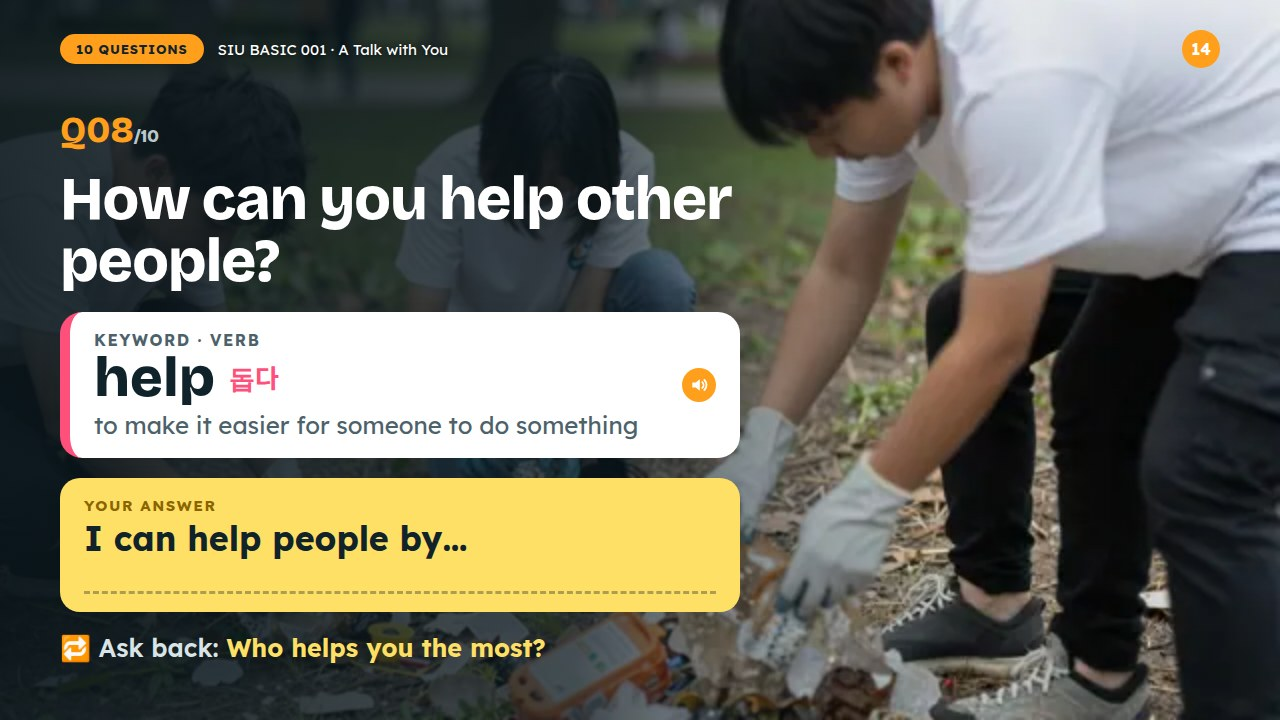
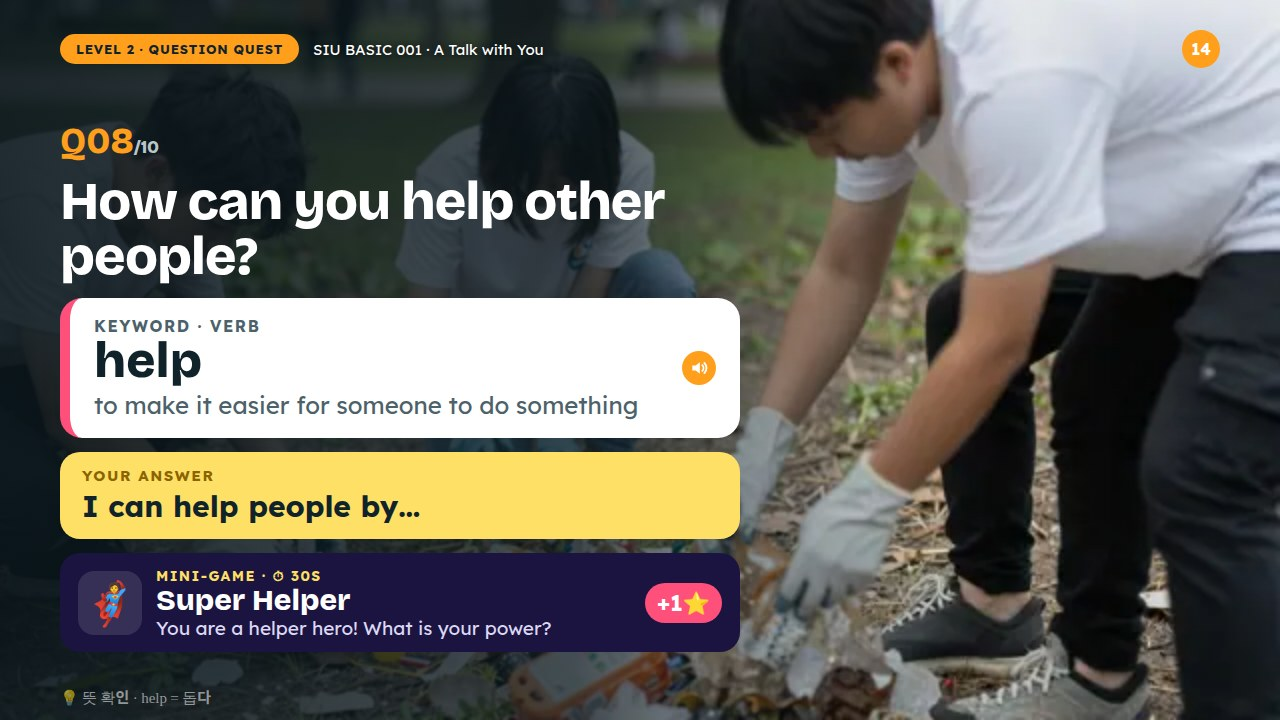
docs(newsiu): SIU BASIC 001 샘플 4판 — 게임쇼 구성(레벨·⭐·미니게임·보스 퍼즐) + 한글 뜻은 각주·뜻맞추기로(짐작→확인)
Claude-Session: https://claude.ai/code/session_013WvnvG5MbTgTVHs2xVEKSf

diff --git a/docs/newsiu-sample/preview.html b/docs/newsiu-sample/preview.html
@@ -25,8 +25,8 @@ button.say{background:var(--mango);border-color:var(--mango);color:#1b1100;font-
 h2{font-size:16px;margin:8px 0 0}
 </style>
 <div class="wrap">
-  <h1>New SIU 샘플 — SIU BASIC 001 · A Talk with You</h1>
-  <p class="meta">3판 · 원본 교재(구글 드라이브 «001 - A talk with you», 2019)의 순서와 내용 그대로 — 현재시제 문법 → Are you a student? → 동사 표 → 질문 10개(핵심 낱말) → 낱말 퍼즐. 디자인·게임 쪽(Fix it!·인터뷰)을 더했습니다. 🔊 는 이 미리보기에서는 브라우저 목소리입니다.</p>
+  <h1>New SIU 샘플 — SIU BASIC 001 · A Talk with You (4판)</h1>
+  <p class="meta">4판 · 원본 교재(구글 드라이브 «001 - A talk with you», 2019) 내용 그대로 + 게임쇼 구성: 레벨 3개와 보스 퍼즐, ⭐ 20개 모으기, 질문마다 다른 미니게임. 한글 뜻은 «먼저 짐작 → 나중에 확인» — 쪽 아래 작은 각주와 17쪽 뜻 맞추기 게임에만 나옵니다. 🔊 는 이 미리보기에서는 브라우저 목소리입니다.</p>
   <div class="stage"><img id="big" alt="교재 쪽"></div>
   <div class="bar">
     <button id="prev" type="button">← 이전</button>
@@ -39,7 +39,7 @@ h2{font-size:16px;margin:8px 0 0}
   <div class="thumbs" id="thumbs"></div>
 </div>
 <script>
-var D=[{"img":"jpg/Slide1.JPG","lines":["A Talk with You"]},{"img":"jpg/Slide2.JPG","lines":["Learn the simple present.","Answer 10 questions.","Solve the crossword."]},{"img":"jpg/Slide3.JPG","lines":["What is simple present?","Simple present is used to talk about an action which happens on a regular basis.","I study English every day.","We use the present tense to talk about something that is true in the present.","I am a student."]},{"img":"jpg/Slide4.JPG","lines":["Are you a student?","Yes, I am a student.","No, I am not a student."]},{"img":"jpg/Slide5.JPG","lines":["Do you like kimchi?","I like kimchi.","She likes kimchi.","I don't like kimchi.","He doesn't like kimchi.","Do you like kimchi?","Does she like kimchi?"]},{"img":"jpg/Slide6.JPG","lines":["He likes kimchi.","She doesn't like cats.","Does he play soccer?","They like music."]},{"img":"jpg/Slide7.JPG","lines":["Why do you study English?","study. To spend time learning about a subject, often with books.","I study English because...","How long do you study every day?"]},{"img":"jpg/Slide8.JPG","lines":["Where do you live?","live. To have your home in a place.","I live in...","Do you like your neighborhood?"]},{"img":"jpg/Slide9.JPG","lines":["What is your favorite TV show?","watch. To look at something for a period of time.","My favorite TV show is...","When do you usually watch it?"]},{"img":"jpg/Slide10.JPG","lines":["Do you have a pet?","pet. An animal you keep at home for company and fun.","Yes, I do. I have a... / No, I don't.","What pet would you like to have?"]},{"img":"jpg/Slide11.JPG","lines":["What is your favorite sport?","sport. A physical game where players or teams compete.","My favorite sport is...","Do you play it or watch it?"]},{"img":"jpg/Slide12.JPG","lines":["What is the best thing about your friend?","best. Better than all the others.","The best thing about my friend is...","How did you meet your friend?"]},{"img":"jpg/Slide13.JPG","lines":["What is one thing you want to learn?","learn. To get knowledge or a skill by studying or practice.","I want to learn how to...","Who can teach you?"]},{"img":"jpg/Slide14.JPG","lines":["How can you help other people?","help. To make it easier for someone to do something.","I can help people by...","Who helps you the most?"]},{"img":"jpg/Slide15.JPG","lines":["What would you like to teach someone?","teach. To show or explain to someone how to do something.","I would like to teach someone how to...","Who taught you something special?"]},{"img":"jpg/Slide16.JPG","lines":["What are your hobbies?","hobby. An activity you do for fun in your free time.","My hobbies are...","How often do you do your hobby?"]},{"img":"jpg/Slide17.JPG","lines":["1. to have your home in a place.","2. to get knowledge or a skill by studying or practice.","3. an animal you keep at home for company and fun.","4. to spend time learning about a subject, often with books.","5. to show or explain to someone how to do something.","6. to make it easier for someone to do something.","7. better than all the others.","8. a physical game where players or teams compete.","9. an activity you do for fun in your free time.","10. to look at something for a period of time."]},{"img":"jpg/Slide18.JPG","lines":["Interview your partner!","Ask five of today's questions in three minutes.","She likes soccer. She doesn't have a pet.","See you next time!"]}], cur=0;
+var D=[{"img":"jpg/Slide1.JPG","lines":["A Talk with You"]},{"img":"jpg/Slide2.JPG","lines":["Your game map.","Level 1, Grammar Gym.","Level 2, Question Quest.","Level 3, Meaning Match.","Beat the Crossword Boss!"]},{"img":"jpg/Slide3.JPG","lines":["What is simple present?","Simple present is used to talk about an action which happens on a regular basis.","I study English every day.","We use the present tense to talk about something that is true in the present.","I am a student."]},{"img":"jpg/Slide4.JPG","lines":["Are you a student?","Yes, I am a student.","No, I am not a student."]},{"img":"jpg/Slide5.JPG","lines":["Do you like kimchi?","I like kimchi.","She likes kimchi.","I don't like kimchi.","He doesn't like kimchi.","Do you like kimchi?","Does she like kimchi?"]},{"img":"jpg/Slide6.JPG","lines":["He likes kimchi.","She doesn't like cats.","Does he play soccer?","They like music."]},{"img":"jpg/Slide7.JPG","lines":["Why do you study English?","study. To spend time learning about a subject, often with books.","I study English because...","Reason Race! Say 3 reasons in 20 seconds!"]},{"img":"jpg/Slide8.JPG","lines":["Where do you live?","live. To have your home in a place.","I live in...","Guess Where! Give 3 clues. Your partner guesses the place!"]},{"img":"jpg/Slide9.JPG","lines":["What is your favorite TV show?","watch. To look at something for a period of time.","My favorite TV show is...","Charades! Act out your favorite show. No talking!"]},{"img":"jpg/Slide10.JPG","lines":["Do you have a pet?","pet. An animal you keep at home for company and fun.","Yes, I do. I have a... / No, I don't.","Dream Pet! Draw your dream pet in 20 seconds. Tell its name!"]},{"img":"jpg/Slide11.JPG","lines":["What is your favorite sport?","sport. A physical game where players or teams compete.","My favorite sport is...","Mime It! Mime a sport. Your partner says \"You play…!\""]},{"img":"jpg/Slide12.JPG","lines":["What is the best thing about your friend?","best. Better than all the others.","The best thing about my friend is...","Compliment Chain! Say one nice thing about the person next to you!"]},{"img":"jpg/Slide13.JPG","lines":["What is one thing you want to learn?","learn. To get knowledge or a skill by studying or practice.","I want to learn how to...","Top 3! Rank 3 things you want to learn. Why is #1 first?"]},{"img":"jpg/Slide14.JPG","lines":["How can you help other people?","help. To make it easier for someone to do something.","I can help people by...","Super Helper! You are a helper hero! What is your power?"]},{"img":"jpg/Slide15.JPG","lines":["What would you like to teach someone?","teach. To show or explain to someone how to do something.","I would like to teach someone how to...","Mini Teacher! Teach your partner something in 30 seconds!"]},{"img":"jpg/Slide16.JPG","lines":["What are your hobbies?","hobby. An activity you do for fun in your free time.","My hobbies are...","Find a Match! Find a classmate with the same hobby!"]},{"img":"jpg/Slide17.JPG","lines":["study","live","watch","pet","sport","best","learn","help","teach","hobby"]},{"img":"jpg/Slide18.JPG","lines":["1. to have your home in a place.","2. to get knowledge or a skill by studying or practice.","3. an animal you keep at home for company and fun.","4. to spend time learning about a subject, often with books.","5. to show or explain to someone how to do something.","6. to make it easier for someone to do something.","7. better than all the others.","8. a physical game where players or teams compete.","9. an activity you do for fun in your free time.","10. to look at something for a period of time."]},{"img":"jpg/Slide19.JPG","lines":["Hot seat interview!","The class asks today's questions. Answer as fast as you can!","She likes soccer. She doesn't have a pet.","Count your stars!","See you next time!"]}], cur=0;
 function speak(list){try{speechSynthesis.cancel();list.forEach(function(t){var u=new SpeechSynthesisUtterance(t);u.lang='en-US';u.rate=.9;speechSynthesis.speak(u);});}catch(e){}}
 function show(i){cur=(i+D.length)%D.length;var d=D[cur];
  document.getElementById('big').src=d.img;document.getElementById('pg').textContent=(cur+1)+' / '+D.length;

diff --git a/docs/newsiu-sample/style4.css b/docs/newsiu-sample/style4.css
@@ -1,0 +1,43 @@
+/* 4판 — 게임쇼 구성 · 한글 뜻 각주 */
+.ko4{font-weight:700;font-size:30px;color:#fff;background:var(--pink);display:inline-block;padding:8px 20px;border-radius:14px;transform:rotate(-2deg)}.ko4 b{color:var(--sun)}
+/* 한글 뜻 각주 — 작고 흐리게, 쪽 맨 아래 */
+.kfn{position:absolute;left:60px;right:200px;bottom:12px;font-family:'Noto Sans KR';font-size:15px;color:#7A8A90;z-index:6;white-space:nowrap;overflow:hidden;text-overflow:ellipsis}
+.kfn.dk{color:rgba(255,255,255,.55)}
+/* 게임 지도 */
+.k-map{background:var(--ink)}.k-map h2{color:#fff}.k-map h2 span{color:var(--mango)}.k-map .foot{color:#FFD28A}.k-map .foot b{color:var(--sun)}
+.path{display:flex;align-items:center;gap:10px;flex:1;min-height:0}
+.arr{font-style:normal;color:var(--mango);font-size:34px}
+.lv{position:relative;flex:1;height:100%;max-height:430px;border-radius:24px;overflow:hidden;background:#000}
+.lv.l1{transform:translateY(-18px) rotate(1.5deg)}.lv.l2{transform:translateY(14px) rotate(-1.5deg)}.lv.l3{border:5px solid var(--pink)}
+.lv img{width:100%;height:100%;object-fit:cover;opacity:.7}
+.lvb{position:absolute;inset:auto 0 0 0;padding:18px 18px 20px;background:linear-gradient(0deg,rgba(0,0,0,.9),rgba(0,0,0,0));color:#fff;display:flex;flex-direction:column;gap:2px}
+.lvb small{color:var(--sun);font-weight:700;letter-spacing:.1em;font-size:15px}.lvb strong{font-family:'Bricolage Grotesque';font-size:30px;line-height:1.05}.lvb em{font-style:normal;font-size:16px;color:#D9E4E8}
+.em4{position:absolute;top:-190px;left:16px;font-size:44px;background:var(--sun);width:72px;height:72px;border-radius:20px;display:flex;align-items:center;justify-content:center}
+.pt{position:absolute;top:14px;right:14px;background:var(--pink);color:#fff;border-radius:999px;padding:6px 12px;font-size:18px}
+/* 스탬프 */
+.stamp{position:absolute;right:120px;top:80px;z-index:6;background:var(--pink);color:#fff;font-weight:800;font-size:26px;padding:10px 20px;border-radius:14px;transform:rotate(8deg);box-shadow:0 8px 18px rgba(0,0,0,.25);border:3px dashed rgba(255,255,255,.7)}
+.stamp.boss{background:#6B2BD9}
+.det{position:absolute;right:60px;top:82px;background:var(--sun);border-radius:16px;padding:10px 18px;font-weight:800;font-size:24px;transform:rotate(3deg);display:flex;flex-direction:column;z-index:4}.det small{font-size:15px;font-weight:600}
+.good.blank{background:#EEF1F4;color:#9AA7AD}
+/* Are you a student 게임줄 */
+.game4.g-qa{position:absolute;left:60px;right:60px;bottom:168px;z-index:4;display:block;font-size:22px;background:rgba(255,255,255,.95)}
+/* 미니게임 상자 */
+.game4{display:grid;grid-template-columns:auto 1fr auto;gap:14px;align-items:center;background:#1B1440;color:#fff;border-radius:20px;padding:12px 18px}
+.game4 .gi{font-size:42px;width:64px;height:64px;border-radius:16px;background:rgba(255,255,255,.12);display:flex;align-items:center;justify-content:center}
+.game4 small{font-size:14px;letter-spacing:.1em;text-transform:uppercase;color:var(--sun);font-weight:700}.game4 b{display:block;font-family:'Bricolage Grotesque';font-size:30px;line-height:1.05}
+.game4 p{font-size:19px;color:#DCD8F5}.game4 em{font-style:normal;font-weight:800;font-size:22px;background:var(--pink);border-radius:999px;padding:6px 12px;white-space:nowrap}
+.g-qa b{display:inline;font-family:inherit;font-size:inherit;color:var(--ink)}.g-qa{color:var(--ink)!important}.g-qa em{margin-left:8px}
+.k-q .qb{gap:14px}.qh{font-size:54px}.kw b{font-size:50px}.ans{font-size:30px;padding:14px 22px}
+/* 뜻 맞추기 */
+.k-mm{background:#FFF1E6}.k-mm h2 span{color:var(--pink)}
+.mm{display:grid;grid-template-columns:1fr 1fr;gap:120px;flex:1;min-height:0;padding:0 40px}
+.mm ol{list-style:none;display:grid;grid-template-rows:repeat(10,1fr);gap:7px}
+.mm li{background:#fff;border-radius:14px;display:flex;align-items:center;gap:12px;padding:0 16px;font-size:24px;font-weight:700;position:relative;box-shadow:0 3px 0 #F2C9A8}
+.mmR li{font-family:'Noto Sans KR';font-size:22px}
+.mm i{font-style:normal;width:30px;height:30px;border-radius:50%;background:var(--mango);color:#fff;font-size:16px;display:flex;align-items:center;justify-content:center;flex:none}.mmR i{background:var(--blue)}
+.dot{position:absolute;width:16px;height:16px;border-radius:50%;background:var(--ink);top:50%;margin-top:-8px}.mmL .dot{right:-8px}.mmR .dot{left:-8px}
+/* 마지막 점수 */
+.score{margin-top:16px;display:inline-flex;align-items:center;gap:16px;background:rgba(255,255,255,.14);border:2px solid rgba(255,255,255,.35);border-radius:18px;padding:10px 20px;color:#fff}.score span{font-size:18px;letter-spacing:.08em;text-transform:uppercase}.score b{font-family:'Bricolage Grotesque';font-size:36px;color:var(--sun)}
+.fn h1{font-size:76px}
+.game4.g-qa{bottom:auto;top:350px}
+.k-fin .fn{margin-top:0}.k-fin .fn h1{font-size:62px;margin:6px 0 10px}.k-fin .badge{width:108px;height:108px;font-size:36px}.k-fin .ex3{margin-top:8px}.k-fin .score{margin-top:10px}.k-fin .fn p{margin-top:10px}

diff --git a/docs/newsiu-sample/README.md b/docs/newsiu-sample/README.md
@@ -1,14 +1,17 @@
 # New SIU 샘플 — SIU BASIC 001 «A Talk with You» (2026-09-28)
 
-- 미리보기: https://claude.ai/artifact/3AHU6SANvdFNGAjaSHeidQ (3판 · 18쪽)
-- **3판(현재)** `build3.mjs` + `style3.css` + `crossword.mjs` — 사장님 「구글 드라이브 원본을 참고로 다시」.
+- 미리보기: https://claude.ai/artifact/3AHU6SANvdFNGAjaSHeidQ (4판 · 19쪽)
+- **4판(현재)** `build4.mjs` + `style4.css` — 사장님 「한글 뜻 처리 + 더 흥미롭고 신나게」.
+  - 한글 뜻: **짐작 → 확인** — 질문 쪽 카드에서 한글을 빼고 쪽 맨 아래 작은 회색 각주(`.kfn`)에만 둠. 17쪽 «Meaning Match» 게임(선 잇기)에서 처음 크게 보여 줌. 문법 용어(조동사·주어·명사)와 Fix it! 정답도 각주로.
+  - 구성: 게임쇼 «The Talk Show Game» — 게임 지도(Level 1 Grammar Gym · Level 2 Question Quest · Level 3 Meaning Match · Crossword Boss), ⭐ 20개 모으기, 질문 10개마다 다른 미니게임(Reason Race·Guess Where·Charades·Dream Pet·Mime It·Compliment Chain·Top 3·Super Helper·Mini Teacher·Find a Match), Stand up! O/X, 마지막 Hot Seat 인터뷰 + 별 세기.
+- **3판** `build3.mjs` + `style3.css` + `crossword.mjs` — 사장님 「구글 드라이브 원본을 참고로 다시」.
   원본: 구글 드라이브 `SIU/SIU BOOKS/SUI - Basic(PDF)/001 - A talk with you(Korean).pdf`(2019, 15쪽).
   원본 순서 그대로: 표지 → Simple Present → Are you a student? → 동사 표(like) → 질문 10개(Keyword·뜻·답 시작말) → 낱말 퍼즐.
   더한 것: 오늘의 미션 · Fix it! 게임 · 질문마다 «Ask back» 되묻기 · 인터뷰 챌린지. 퍼즐은 원본 낱말 10개로 실제 풀 수 있는 판을 만듦(정답 `crossword-answer.json`).
   **원본과 다른 점(원본 오류 바로잡음):** He/She/It **like** kimchi → **likes** · What is your **sports**? → What is your **favorite sport**? ·
   What is the best thing that **describe you** friend? → What is the best thing **about your friend**? · What **will** you like to teach? → What **would** you like to teach someone? ·
   What can you do to help → **How can you** help · 낱말 뜻은 원본 사전식 풀이를 쉬운 영어로 줄임 · won't 철자 등.
-- 2판 `build2.mjs`(주제만 보고 새로 쓴 게임형 18쪽)은 비교용으로 남겨 둠 — ⚠ 다시 돌리면 3판 jpg·say.json 을 덮어씁니다.
+- 2판 `build2.mjs`(주제만 보고 새로 쓴 게임형 18쪽)은 비교용으로 남겨 둠 — ⚠ 옛 판(build2·build3)을 다시 돌리면 현재 jpg·say.json 을 덮어씁니다.
 - **2판** `build2.mjs` + `style2.css` — 사장님 「더 흥미진진하고 다이나믹하게」.
   표지 → 오늘의 미션 → 만화 웜업 → VS 투표 → 폴라로이드 낱말 2쪽 → 그림 맞히기 게임 →
   폰 채팅 표현 → 카페 만화 대화 → 잡지 읽기(DO/DON'T) → «대화는 캐치볼» → O/X 퀴즈 →
@@ -16,10 +19,10 @@
   60초 챌린지 → 마무리 복습.
 - 1판 `build.mjs` + `siu-basic-001.content.json`(16쪽, 차분한 교재형)은 비교용으로 남겨 둠.
 - `jpg/SlideN.JPG` — 1280×720 쪽 그림. 올릴 때 폴더: `SIU BASIC 001 - A talk with you/New/SlideN.JPG`
-- `siu-basic-01.say.json` — 쪽별 읽을 문장(18쪽 · 77줄). 키는 새 BTS(`/data/tb-say/bts-NN.json`)와 같은 모양.
+- `siu-basic-01.say.json` — 쪽별 읽을 문장(19쪽 · 90줄). 키는 새 BTS(`/data/tb-say/bts-NN.json`)와 같은 모양.
 - 사진: 저장소의 힉스필드 실사(`img/scene-words`·`img/scene-clips`) + 새로 만든 6장(`gen/` — 표지·미래인·발표자·캐치볼·점프·서퍼).
   새 사진은 프록시가 힉스필드 CDN 을 막아 CI 러너(임시 브랜치)로 받았습니다.
-- 다시 만들기: `fonts2.css`(구글 폰트 base64, 깃에 없음)를 만든 뒤 `node build3.mjs && node shot.mjs jpg`.
+- 다시 만들기: `fonts2.css`(구글 폰트 base64, 깃에 없음)를 만든 뒤 `node build4.mjs && node shot.mjs jpg`.
 
 ⚠ 1·2판은 원본을 보기 전에 주제만 보고 새로 쓴 것입니다. 3판부터 원본 기준입니다.
 ⛔ 저장소의 `speech-data-siu-basic.js` 문장(공용 더미)은 쓰지 않았습니다.
